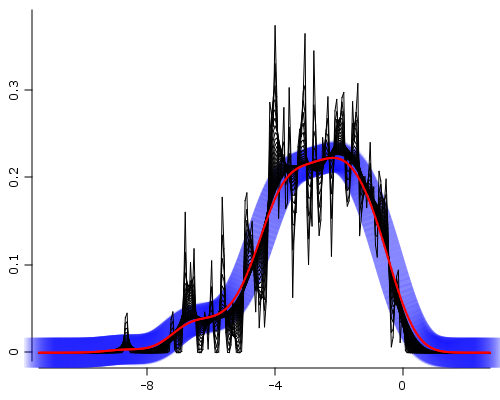
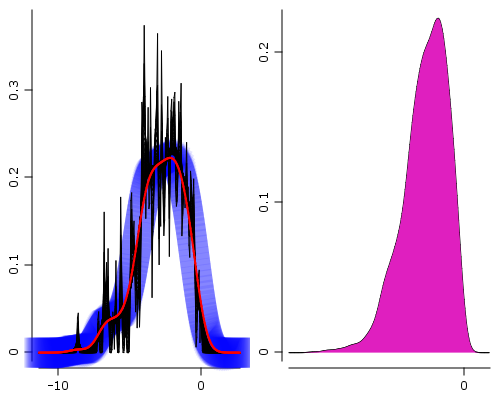
- add a test for text artist - implement fill for density lines, fix: https://github.com/padreati/rapaio/issues/230 - implement color(-1) and fill(-1) as no drawing

diff --git a/src/rapaio/graphics/plot/artist/DensityLine.java b/src/rapaio/graphics/plot/artist/DensityLine.java
@@ -32,6 +32,7 @@ import rapaio.graphics.plot.Axis;
 
 import java.awt.*;
 import java.awt.geom.Line2D;
+import java.awt.geom.Path2D;
 
 /**
  * Artist which draws a KDE density estimator function.
@@ -98,14 +99,28 @@ public class DensityLine extends Artist {
 
         for (int i = 1; i < x.size(); i++) {
             if (contains(x.getDouble(i - 1), y.getDouble(i - 1)) && contains(x.getDouble(i), y.getDouble(i))) {
-                g2d.setColor(options.getColor(i));
-                g2d.draw(new Line2D.Double(
-                        xScale(x.getDouble(i - 1)),
-                        yScale(y.getDouble(i - 1)),
-                        xScale(x.getDouble(i)),
-                        yScale(y.getDouble(i))));
-
+                if (options.getColor(i) != null) {
+                    g2d.setColor(options.getColor(i));
+                    g2d.draw(new Line2D.Double(
+                            xScale(x.getDouble(i - 1)),
+                            yScale(y.getDouble(i - 1)),
+                            xScale(x.getDouble(i)),
+                            yScale(y.getDouble(i))));
+                }
             }
+        }
+        Path2D.Double poly = new Path2D.Double();
+        poly.moveTo(xScale(x.getDouble(0)), yScale(y.getDouble(0)));
+        for (int i = 1; i < x.size(); i++) {
+            if (contains(x.getDouble(i - 1), y.getDouble(i - 1)) && contains(x.getDouble(i), y.getDouble(i))) {
+                poly.lineTo(xScale(x.getDouble(i)), yScale(y.getDouble(i)));
+            }
+        }
+        poly.lineTo(xScale(x.getDouble(0)), yScale(y.getDouble(0)));
+
+        if (options.getFill(0) != null) {
+            g2d.setColor(options.getFill(0));
+            g2d.fill(poly);
         }
 
         g2d.setComposite(oldComposite);

diff --git a/tst/rapaio/graphics/ImageGraphicsTest.java b/tst/rapaio/graphics/ImageGraphicsTest.java
@@ -226,12 +226,14 @@ public class ImageGraphicsTest {
     void testDensity() throws IOException {
 
         Var x = df.rvar(0).mapRows(Mapping.range(200));
-        Plot fig = densityLine(x, new KFuncGaussian(), lwd(30), alpha(0.1f), color(2));
+        var up = densityLine(x, new KFuncGaussian(), lwd(30), alpha(0.1f), color(2));
         for (int i = 10; i < 150; i += 5) {
-            fig.densityLine(x, i / 300.0);
+            up.densityLine(x, i / 300.0);
         }
-        fig.densityLine(x, lwd(2), color(1));
-        assertTest(fig, "density-test");
+        up.densityLine(x, lwd(2), color(1));
+
+        var down = densityLine(df.rvar(0), fill(13));
+        assertTest(gridLayer(1, 2).add(up).add(down), "density-test");
     }
 
     @Test
@@ -253,6 +255,17 @@ public class ImageGraphicsTest {
         plot.segmentArrow(0.1, 0.9, 0.9, 0.1, fill(2), lwd(6));
 
         assertTest(plot, "segment-test");
+    }
+
+    @Test
+    @SneakyThrows
+    void testText() {
+        var plot = plot().xLim(0, 1).yLim(0, 1);
+        plot.text(0.1, 0.9, "Ana\nAre\nMere", hAlign(HALIGN_LEFT));
+        plot.text(0.5, 0.9, "Ana\nAre\nMere", hAlign(HALIGN_CENTER), color(2));
+        plot.text(0.8, 0.9, "Ana\nAre\nMere", hAlign(HALIGN_RIGHT), color(4));
+
+        assertTest(plot, "text-test");
     }
 
     @Test

diff --git a/src/rapaio/graphics/opt/GOptions.java b/src/rapaio/graphics/opt/GOptions.java
@@ -46,7 +46,7 @@ public class GOptions implements Serializable {
         defaults = new GOptions();
         defaults.palette = new GOptionPalette(ColorPalette.STANDARD);
         defaults.color = new GOptionColor(Color.BLACK);
-        defaults.fill = new GOptionFill(Color.BLACK);
+        defaults.fill = new GOptionFill(-1);
         defaults.lwd = new GOptionLwd(1.0f);
         defaults.sz = new GOptionSz(VarDouble.scalar(3));
         defaults.pch = new GOptionPch(VarInt.scalar(0));
@@ -171,7 +171,7 @@ public class GOptions implements Serializable {
                 return parent.getFill(row);
             } else {
                 Color[] _color = defaults.fill.apply(this);
-                return _color[row % _color.length];
+                return _color != null ? _color[row % _color.length] : null;
             }
         }
         Color[] _color = fill.apply(this);

diff --git a/src/rapaio/graphics/Plotter.java b/src/rapaio/graphics/Plotter.java
@@ -65,6 +65,7 @@ import rapaio.graphics.plot.artist.Points;
 import rapaio.graphics.plot.artist.PolyFill;
 import rapaio.graphics.plot.artist.PolyLine;
 import rapaio.graphics.plot.artist.ROCCurve;
+import rapaio.graphics.plot.artist.Text;
 import rapaio.ml.eval.metric.ROC;
 import rapaio.util.function.Double2DoubleFunction;
 
@@ -190,6 +191,10 @@ public final class Plotter {
 
     public static Plot corrGram(DistanceMatrix d, boolean labels, boolean grid, GOption<?>... opts) {
         return plot().add(new CorrGram(d, labels, grid, opts));
+    }
+
+    public static Plot text(double x, double y, String text, GOption<?>... opts) {
+        return plot().add(new Text(x, y, text, opts));
     }
 
     // GRAPHICAL OPTIONS

diff --git a/src/rapaio/graphics/plot/Plot.java b/src/rapaio/graphics/plot/Plot.java
@@ -47,6 +47,7 @@ import rapaio.graphics.plot.artist.PolyFill;
 import rapaio.graphics.plot.artist.PolyLine;
 import rapaio.graphics.plot.artist.ROCCurve;
 import rapaio.graphics.plot.artist.Segment;
+import rapaio.graphics.plot.artist.Text;
 import rapaio.ml.eval.metric.ROC;
 import rapaio.util.function.Double2DoubleFunction;
 
@@ -494,6 +495,11 @@ public class Plot implements Figure {
         yLab("Sampling Quantiles");
         xLab("Theoretical Quantiles");
         title("QQPlot - sample vs. " + distribution.name());
+        return this;
+    }
+
+    public Plot text(double x, double y, String text, GOption<?>... opts) {
+        add(new Text(x, y, text, opts));
         return this;
     }
 }

diff --git a/src/rapaio/graphics/opt/GOptionFill.java b/src/rapaio/graphics/opt/GOptionFill.java
@@ -36,6 +36,10 @@ public class GOptionFill implements GOption<Color[]> {
     private final SFunction<GOptions, Color[]> function;
 
     public GOptionFill(int... index) {
+        if (index.length == 1 && index[0] == -1) {
+            function = gOpts -> null;
+            return;
+        }
         function = gOpts -> Arrays.stream(index).boxed().map(i -> gOpts.getPalette().getColor(i)).toArray(Color[]::new);
     }
 
